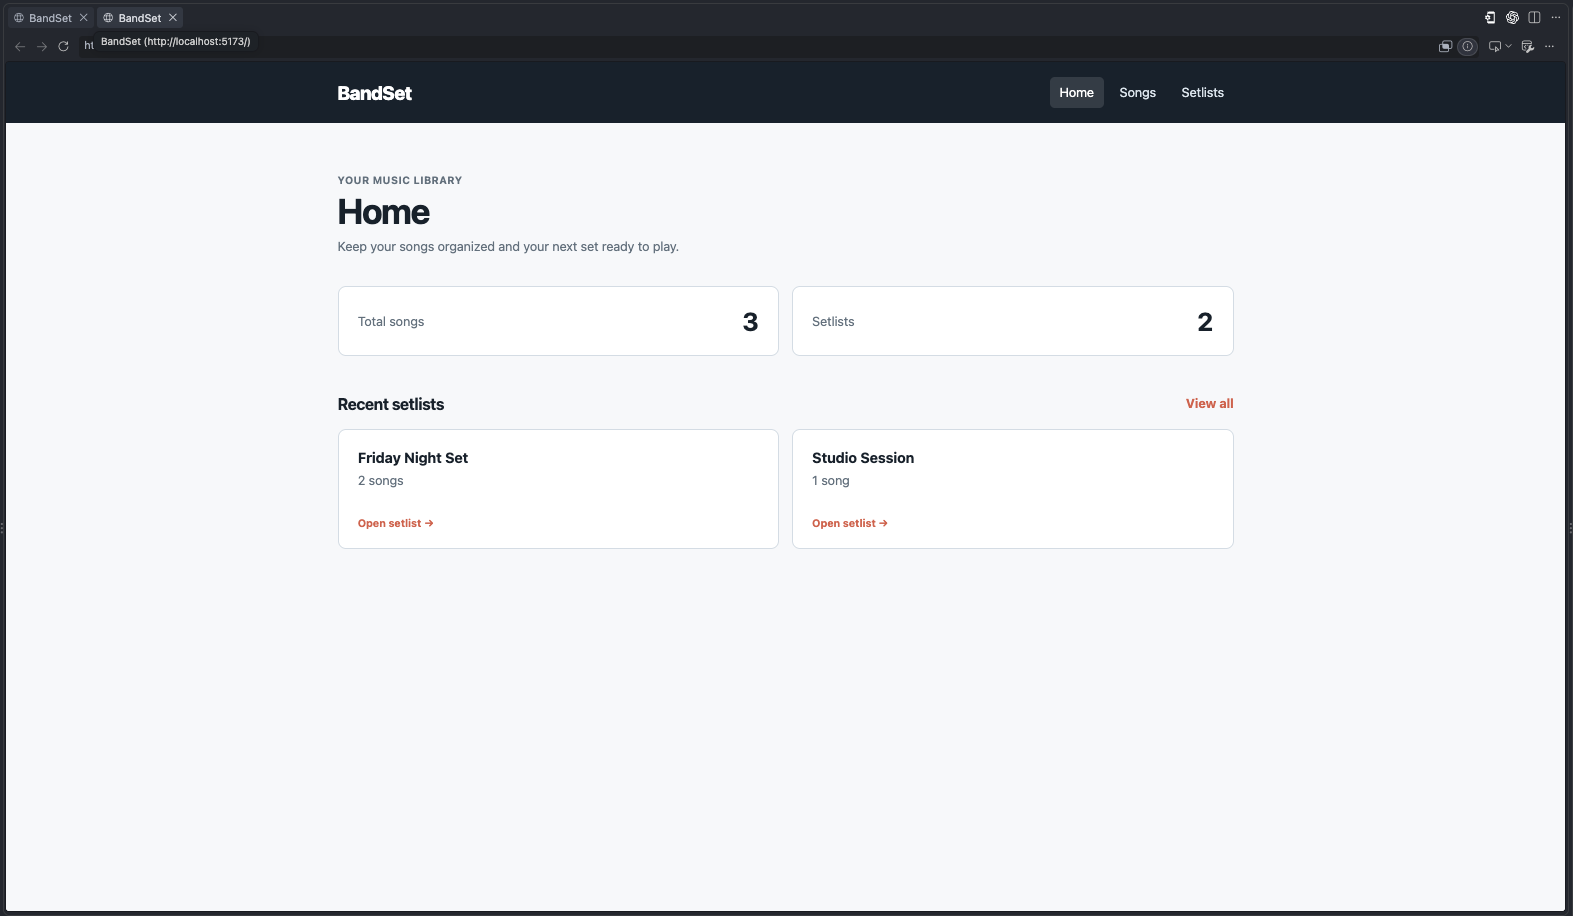
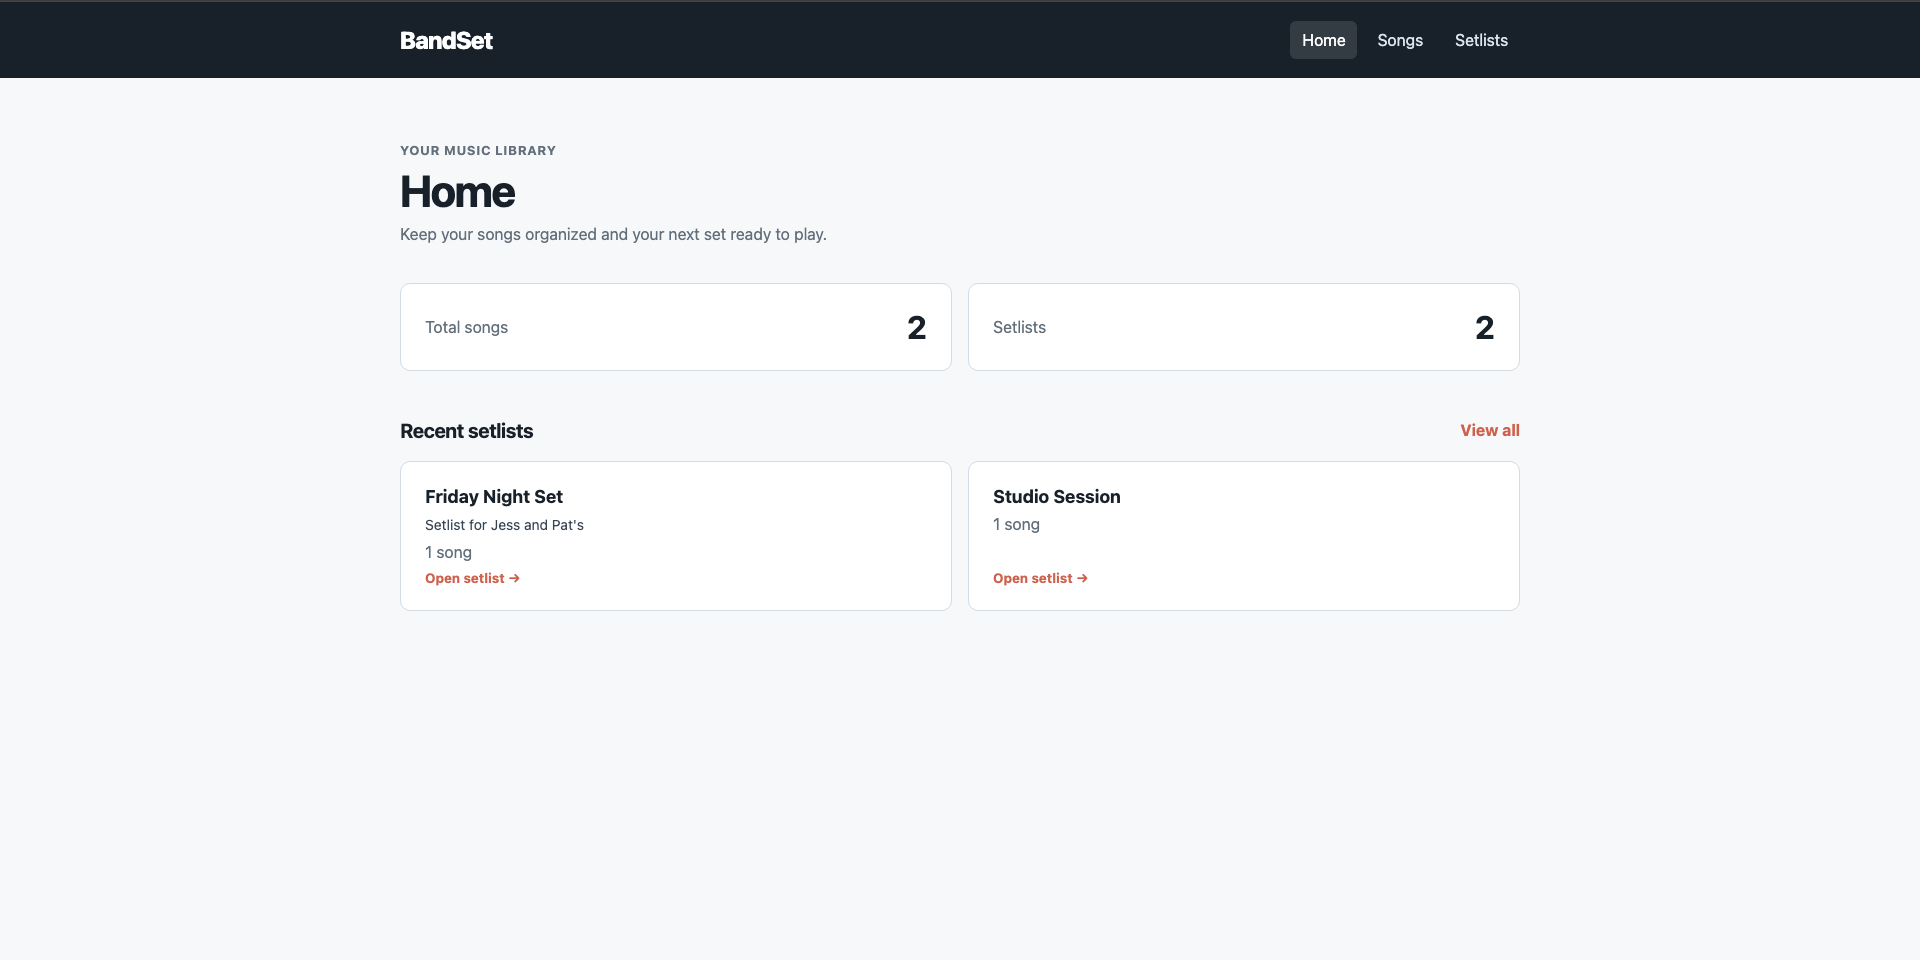
Add final application screenshots

diff --git a/README.md b/README.md
@@ -75,20 +75,20 @@ The API starts at `http://localhost:3001`. You can confirm it is running by open
 
 ### API routes
 
-| Method | Path | Purpose |
-| --- | --- | --- |
-| `GET` | `/api/health` | Confirms that the API server is running. |
-| `GET` | `/api/songs` | Returns all songs. |
-| `POST` | `/api/songs` | Creates a validated song. |
-| `PUT` | `/api/songs/:id` | Updates a validated song. |
-| `DELETE` | `/api/songs/:id` | Deletes a song and its setlist entries. |
-| `GET` | `/api/setlists` | Returns all setlists and song counts. |
-| `POST` | `/api/setlists` | Creates a validated setlist. |
-| `PUT` | `/api/setlists/:id` | Updates a validated setlist title and optional description. |
-| `DELETE` | `/api/setlists/:id` | Deletes a setlist and its song entries. |
-| `GET` | `/api/setlists/:id` | Returns one setlist with its ordered songs. |
-| `POST` | `/api/setlists/:id/songs` | Adds an existing song to a setlist at the next position. |
-| `DELETE` | `/api/setlists/:id/songs/:songId` | Removes a song and closes the position gap. |
+| Method   | Path                              | Purpose                                                     |
+| -------- | --------------------------------- | ----------------------------------------------------------- |
+| `GET`    | `/api/health`                     | Confirms that the API server is running.                    |
+| `GET`    | `/api/songs`                      | Returns all songs.                                          |
+| `POST`   | `/api/songs`                      | Creates a validated song.                                   |
+| `PUT`    | `/api/songs/:id`                  | Updates a validated song.                                   |
+| `DELETE` | `/api/songs/:id`                  | Deletes a song and its setlist entries.                     |
+| `GET`    | `/api/setlists`                   | Returns all setlists and song counts.                       |
+| `POST`   | `/api/setlists`                   | Creates a validated setlist.                                |
+| `PUT`    | `/api/setlists/:id`               | Updates a validated setlist title and optional description. |
+| `DELETE` | `/api/setlists/:id`               | Deletes a setlist and its song entries.                     |
+| `GET`    | `/api/setlists/:id`               | Returns one setlist with its ordered songs.                 |
+| `POST`   | `/api/setlists/:id/songs`         | Adds an existing song to a setlist at the next position.    |
+| `DELETE` | `/api/setlists/:id/songs/:songId` | Removes a song and closes the position gap.                 |
 
 ## Project structure
 
@@ -125,6 +125,18 @@ BandSet/
 
 ![BandSet home screen](docs/screenshots/home.png)
 
+### Songs screen
+
+![BandSet songs screen](docs/screenshots/songs.png)
+
+### Setlists screen
+
+![BandSet setlists screen](docs/screenshots/setlists.png)
+
+### Setlist details screen
+
+![BandSet setlist details screen](docs/screenshots/setlist-details.png)
+
 ## Deployment
 
 BandSet is configured for deployment on Vercel. The Vite frontend is served as static files and the files in `api/` expose the Express API as Vercel Functions, including nested setlist routes.
@@ -145,3 +157,10 @@ The deployed app uses HTTP Basic Authentication. Store its username and password
 - You must add your private Supabase connection string to a local `.env` file before starting the backend. It must never be committed.
 - The deployment uses a shared HTTP Basic Auth gate for grading access. It is not a multi-user account system.
 - A limited production database role is still recommended before a public production release.
+
+## BandSet grading access
+
+Live app: https://bandset.vercel.app/
+
+Username: root
+Password: root1234
